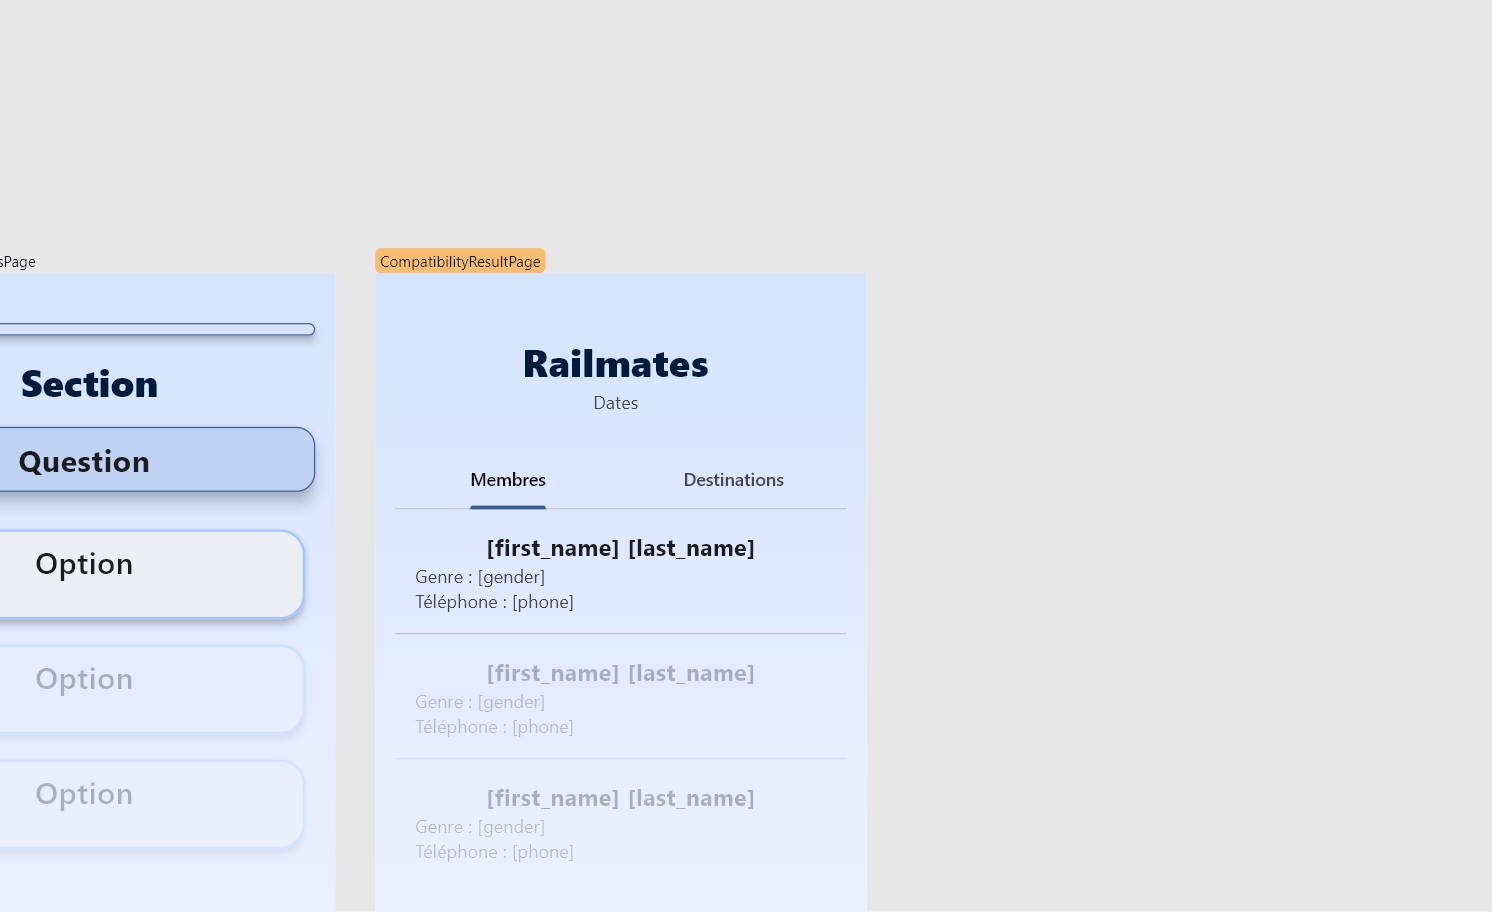
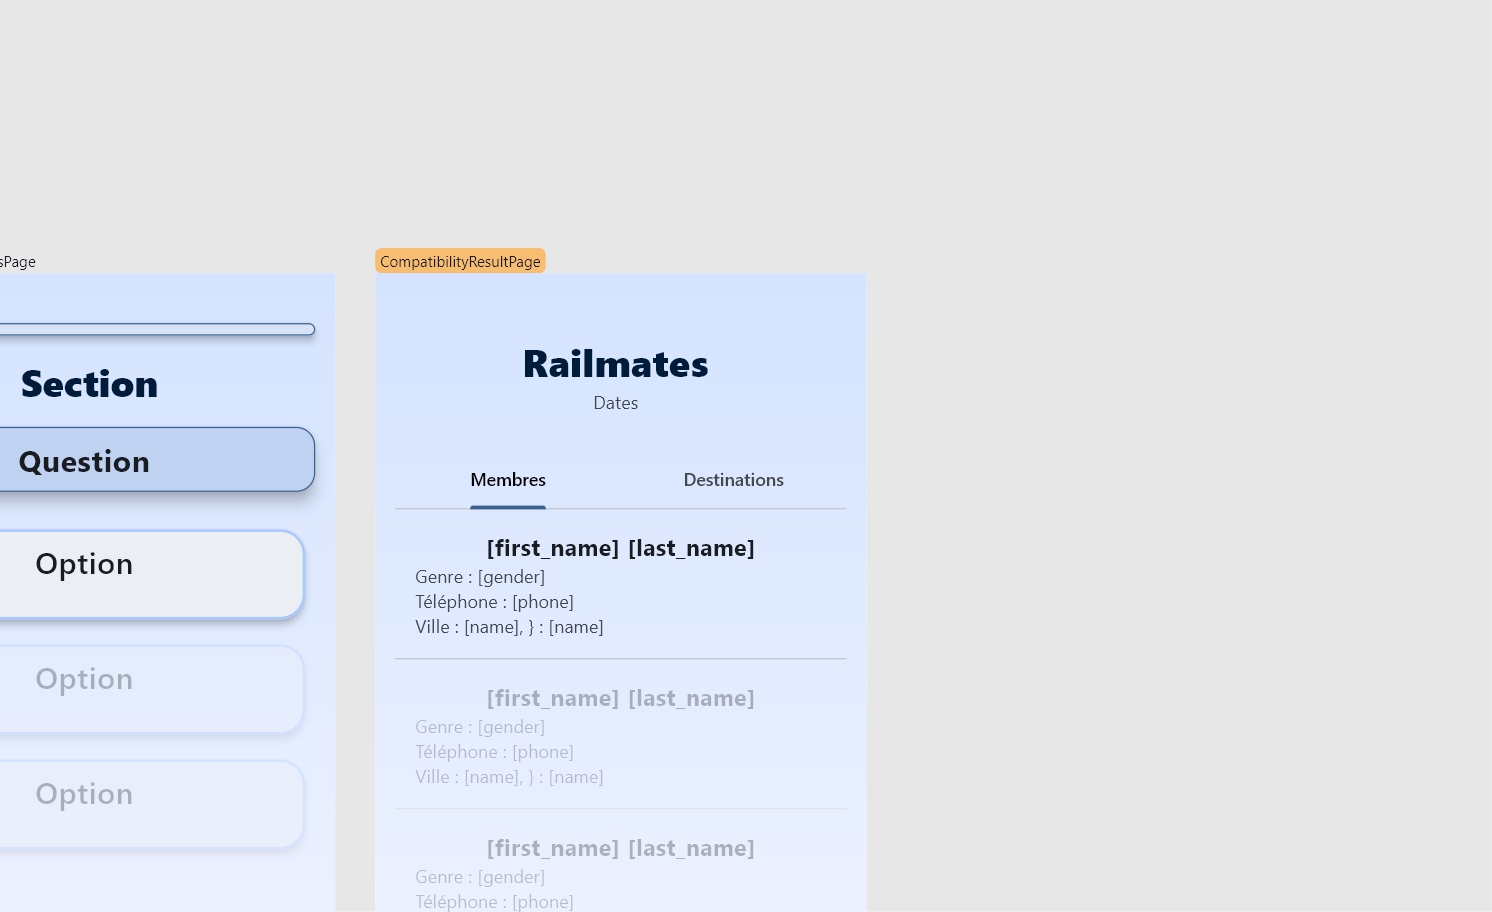
✨ Add getByIdCities query and update CompatibilityResultPage to display city and country information for users

Changed region(s): [[0.2775, 0.6754, 0.5241, 1.0]]

diff --git a/lib/pages/compatibility_result_page.dart b/lib/pages/compatibility_result_page.dart
@@ -2,6 +2,7 @@ import 'package:flutter/material.dart';
 import 'package:nowa_runtime/nowa_runtime.dart';
 import 'package:railmates/global_state.dart';
 import 'package:railmates/models/group_members_model.dart';
+import 'package:railmates/models/cities_model.dart';
 import 'package:railmates/integrations/supabase_service.dart';
 import 'package:railmates/models/group_destinations_model.dart';
 import 'package:flutter_svg/flutter_svg.dart';
@@ -91,12 +92,11 @@ class _CompatibilityResultPageState extends State<CompatibilityResultPage> {
                                 itemCount: data.length,
                                 separatorBuilder: (context, index) =>
                                     const Divider(
-                                      height: 1.0,
-                                      color: Color(0xFFC4C4C4),
-                                    ),
+                                  height: 1.0,
+                                  color: Color(0xFFC4C4C4),
+                                ),
                                 itemBuilder: (context, index) {
                                   final GroupMembersModel element = data[index];
-                                  final user = element.user_id;
                                   return ListTile(
                                     title: Text(
                                       '${element.user_id?.first_name} ${element.user_id?.last_name}',
@@ -110,12 +110,51 @@ class _CompatibilityResultPageState extends State<CompatibilityResultPage> {
                                       crossAxisAlignment:
                                           CrossAxisAlignment.start,
                                       children: [
-                                        if (user?.gender != null &&
-                                            user!.gender!.isNotEmpty)
-                                          Text('Genre : ${user?.gender}'),
-                                        if (user?.phone != null &&
-                                            user!.phone!.isNotEmpty)
-                                          Text('Téléphone : ${user?.phone}'),
+                                        FlexSizedBox(
+                                          width: null,
+                                          height: null,
+                                          child: Text(
+                                            '${GlobalState.of(context).localizations.gender} : ${element.user_id?.gender}',
+                                          ),
+                                        ),
+                                        FlexSizedBox(
+                                          width: null,
+                                          height: null,
+                                          child: Text(
+                                            '${GlobalState.of(context).localizations.phone} : ${element.user_id?.phone}',
+                                          ),
+                                        ),
+                                        FlexSizedBox(
+                                          width: null,
+                                          height: null,
+                                          child: DataBuilder<CitiesModel?>(
+                                            builder: (context, data) => Text(
+                                              '${GlobalState.of(context).localizations.city} : ${data?.name}, ${data?.country_id?.name}',
+                                            ),
+                                            loadingWidget: const Align(
+                                              alignment: Alignment(0.0, 0.0),
+                                              child:
+                                                  CircularProgressIndicator(),
+                                            ),
+                                            errorBuilder: (context, error) =>
+                                                Align(
+                                              alignment: const Alignment(
+                                                0.0,
+                                                0.0,
+                                              ),
+                                              child: Text(
+                                                error.toString(),
+                                                style: const TextStyle(
+                                                  color: Color(0xFFFF0000),
+                                                ),
+                                              ),
+                                            ),
+                                            future:
+                                                SupabaseService().getByIdCities(
+                                              element.user_id!.city!,
+                                            ),
+                                          ),
+                                        ),
                                       ],
                                     ),
                                     contentPadding: const EdgeInsets.symmetric(
@@ -152,11 +191,11 @@ class _CompatibilityResultPageState extends State<CompatibilityResultPage> {
                                 builder: (context, data) => GridView.custom(
                                   gridDelegate:
                                       const SliverGridDelegateWithFixedCrossAxisCount(
-                                        crossAxisCount: 3,
-                                        mainAxisSpacing: 10.0,
-                                        crossAxisSpacing: 10.0,
-                                        childAspectRatio: 0.8,
-                                      ),
+                                    crossAxisCount: 3,
+                                    mainAxisSpacing: 10.0,
+                                    crossAxisSpacing: 10.0,
+                                    childAspectRatio: 0.8,
+                                  ),
                                   childrenDelegate: SliverChildBuilderDelegate((
                                     context,
                                     index,
@@ -202,8 +241,7 @@ class _CompatibilityResultPageState extends State<CompatibilityResultPage> {
                                                     BorderRadius.circular(10.0),
                                                 child: SvgPicture(
                                                   SvgNetworkLoader(
-                                                    element
-                                                        .countries_id!
+                                                    element.countries_id!
                                                         .flag_url!,
                                                   ),
                                                   fit: BoxFit.fill,

diff --git a/lib/integrations/supabase_service.dart b/lib/integrations/supabase_service.dart
@@ -97,6 +97,15 @@ class SupabaseService {
     return response.map((json) => CitiesModel.fromJson(json)).toList();
   }
 
+  Future<CitiesModel?> getByIdCities(int id) async {
+    final response = await Supabase.instance.client
+        .from('cities')
+        .select('*, country_id(name)')
+        .eq('id', id)
+        .maybeSingle();
+    return response != null ? CitiesModel.fromJson(response!) : null;
+  }
+
   Future<List<CountriesModel>> getAllCountries() async {
     final response = await Supabase.instance.client
         .from('countries')
@@ -206,7 +215,7 @@ class SupabaseService {
   }
 
   Future<List<CompatibilityDestinationsModel>>
-  getAllCompatibility_destinations() async {
+      getAllCompatibility_destinations() async {
     final response = await Supabase.instance.client
         .from('compatibility_destinations')
         .select('*');
